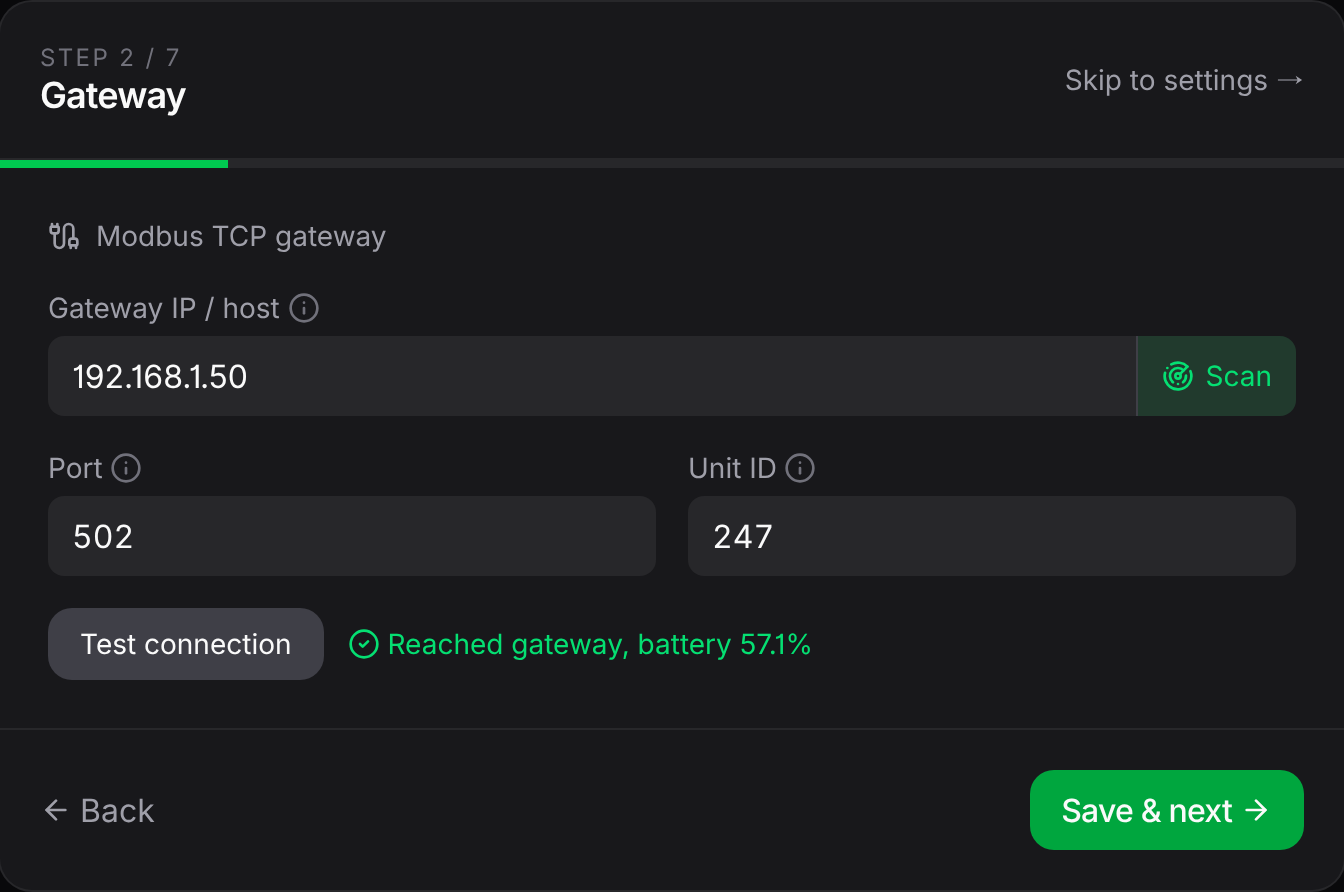
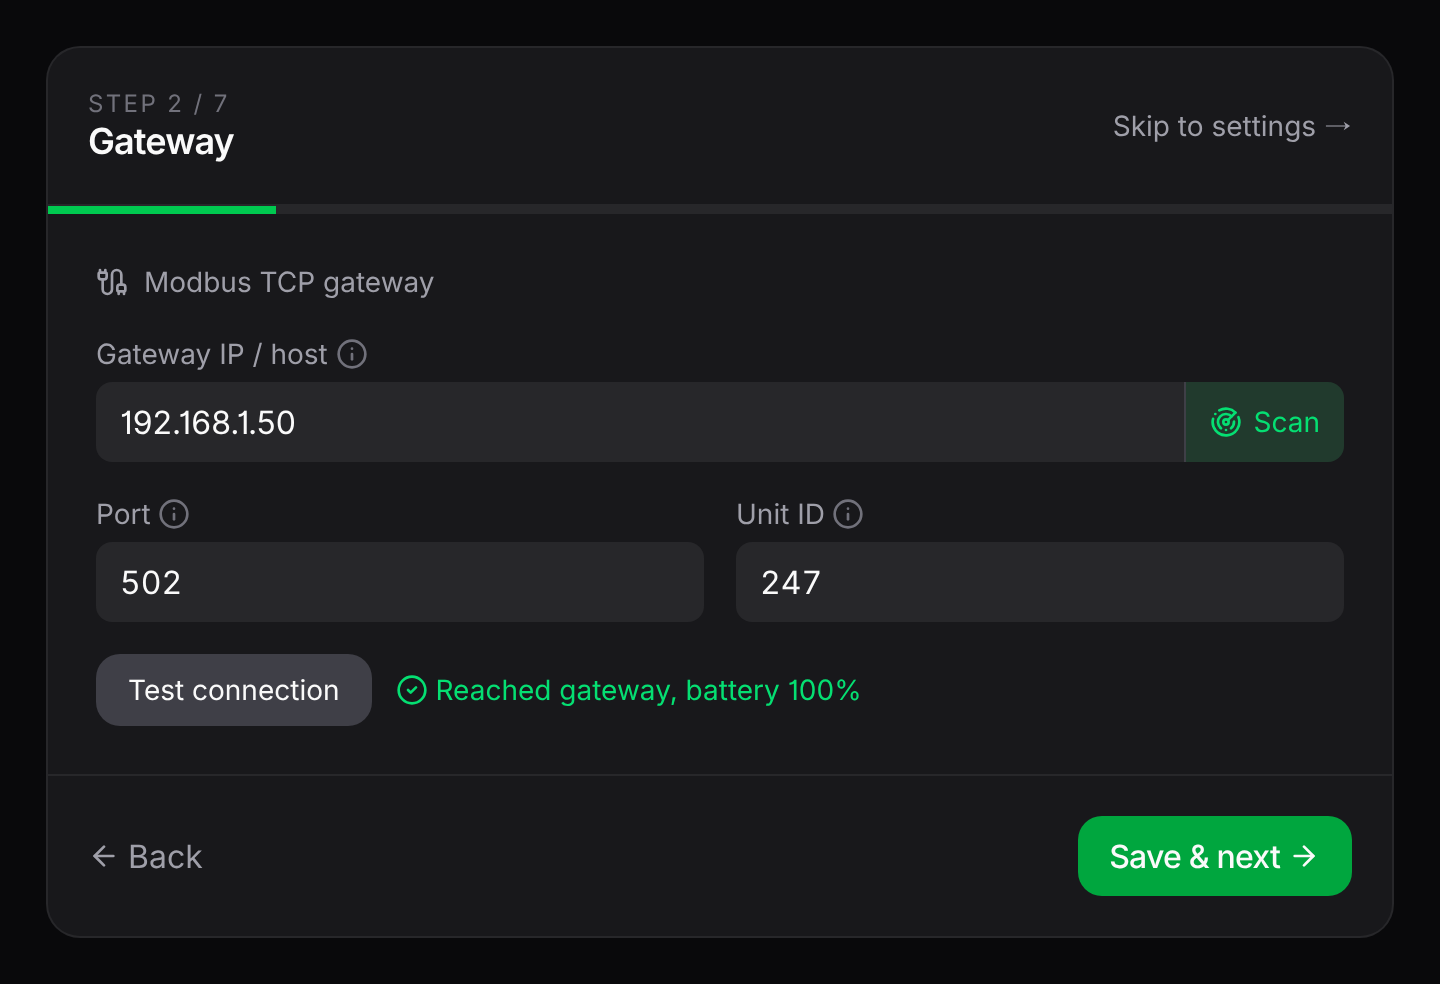
Retook the wizard screenshot with page margin around the card so its corners sit inside the docs border, and made the wizard capture fill the gateway host when the wizard opens empty.

diff --git a/docs/DEEP_DIVE.md b/docs/DEEP_DIVE.md
@@ -389,7 +389,7 @@ PLAYWRIGHT_VERSION=1.59.0 SIGEN_URL=http://bridge.lan:5163 npm run screenshots
 
 The optional argument limits the run to a group: `data` (dashboard, trends, devices, and fullscreen shots across every viewport), `settings` (the six settings pages), `wizard` (the gateway step), or `all` (the default). `SCREENSHOT_OUT` redirects the output to a different repo-relative folder, handy for a dry run that leaves the committed PNGs alone. `SHOT_FILES` (a comma-separated list of file names, such as `SHOT_FILES=fullscreen-cost-tablet.png`) re-shoots only those files from the `data` group.
 
-The capture lives in `scripts/capture-screenshots.mjs`: the viewport profiles (desktop 1280×800, tablet 1194×834, phone 393×852 and 852×393, all at 2× scale), the routes, and the settings sizing. The dashboard, fullscreen, devices, and Settings → Solar shots replace the live readings with a fixed daytime sample (solar across three named strings, a Smart Port hot water load drawing on the surplus, the battery charging, the grid exporting), so they look the same whether the target is in full sun or sitting dark at night, and the serial and string names are swapped for placeholders. Every context renders in one timezone (`Australia/Sydney`, override with `SCREENSHOT_TZ`) so the footer clock, the cost figure, and the trends x-axis stay consistent between runs. The trends shots keep the real history. The Gateway and Apple Home settings shots are sanitized in-page before they fire, so no real values reach a committed PNG: the gateway host is overwritten with `192.168.1.50`, the HomeKit PIN is masked, and the bind interface is cleared. The wizard shot runs a real Test connection, so the target needs a reachable gateway.
+The capture lives in `scripts/capture-screenshots.mjs`: the viewport profiles (desktop 1280×800, tablet 1194×834, phone 393×852 and 852×393, all at 2× scale), the routes, and the settings sizing. The dashboard, fullscreen, devices, and Settings → Solar shots replace the live readings with a fixed daytime sample (solar across three named strings, a Smart Port hot water load drawing on the surplus, the battery charging, the grid exporting), so they look the same whether the target is in full sun or sitting dark at night, and the serial and string names are swapped for placeholders. Every context renders in one timezone (`Australia/Sydney`, override with `SCREENSHOT_TZ`) so the footer clock, the cost figure, and the trends x-axis stay consistent between runs. The trends shots keep the real history. The Gateway and Apple Home settings shots are sanitized in-page before they fire, so no real values reach a committed PNG: the gateway host is overwritten with `192.168.1.50`, the HomeKit PIN is masked, and the bind interface is cleared. The wizard shot runs a real Test connection, so the target needs a reachable gateway and no settings passcode (the test route needs an unlocked session). If the target's gateway address comes from `SIGEN_IP` rather than saved settings, the wizard opens with an empty host; set `SHOT_GATEWAY_HOST` to the gateway's address for the test. The shot shows only the placeholder address. The capture keeps `24 px` of page background around the wizard card so the card's rounded corners sit inside the docs border.
 
 Chromium launches with `--font-render-hinting=none`. Headless Linux Chromium otherwise hints to whole pixels, which snaps glyph advances and spaces the small labels unevenly; disabling it keeps the subpixel positioning a real browser uses, so the captures match the live app.
 

diff --git a/docs/reference/development.md b/docs/reference/development.md
@@ -125,7 +125,7 @@ PLAYWRIGHT_VERSION=1.59.0 SIGEN_URL=http://bridge.lan:5163 npm run screenshots
 
 The optional argument limits the run to a group: `data` (dashboard, trends, devices, and fullscreen shots across every viewport), `settings` (the six settings pages), `wizard` (the gateway step), or `all` (the default). `SCREENSHOT_OUT` redirects the output to a different repo-relative folder, handy for a dry run that leaves the committed PNGs alone. `SHOT_FILES` (a comma-separated list of file names, such as `SHOT_FILES=fullscreen-cost-tablet.png`) re-shoots only those files from the `data` group.
 
-The capture lives in `scripts/capture-screenshots.mjs`: the viewport profiles (desktop 1280×800, tablet 1194×834, phone 393×852 and 852×393, all at 2× scale), the routes, and the settings sizing. The dashboard, fullscreen, devices, and Settings → Solar shots replace the live readings with a fixed daytime sample (solar across three named strings, a Smart Port hot water load drawing on the surplus, the battery charging, the grid exporting), so they look the same whether the target is in full sun or sitting dark at night, and the serial and string names are swapped for placeholders. Every context renders in one timezone (`Australia/Sydney`, override with `SCREENSHOT_TZ`) so the footer clock, the cost figure, and the trends x-axis stay consistent between runs. The trends shots keep the real history. The Gateway and Apple Home settings shots are sanitized in-page before they fire, so no real values reach a committed PNG: the gateway host is overwritten with `192.168.1.50`, the HomeKit PIN is masked, and the bind interface is cleared. The wizard shot runs a real Test connection, so the target needs a reachable gateway.
+The capture lives in `scripts/capture-screenshots.mjs`: the viewport profiles (desktop 1280×800, tablet 1194×834, phone 393×852 and 852×393, all at 2× scale), the routes, and the settings sizing. The dashboard, fullscreen, devices, and Settings → Solar shots replace the live readings with a fixed daytime sample (solar across three named strings, a Smart Port hot water load drawing on the surplus, the battery charging, the grid exporting), so they look the same whether the target is in full sun or sitting dark at night, and the serial and string names are swapped for placeholders. Every context renders in one timezone (`Australia/Sydney`, override with `SCREENSHOT_TZ`) so the footer clock, the cost figure, and the trends x-axis stay consistent between runs. The trends shots keep the real history. The Gateway and Apple Home settings shots are sanitized in-page before they fire, so no real values reach a committed PNG: the gateway host is overwritten with `192.168.1.50`, the HomeKit PIN is masked, and the bind interface is cleared. The wizard shot runs a real Test connection, so the target needs a reachable gateway and no settings passcode (the test route needs an unlocked session). If the target's gateway address comes from `SIGEN_IP` rather than saved settings, the wizard opens with an empty host; set `SHOT_GATEWAY_HOST` to the gateway's address for the test. The shot shows only the placeholder address. The capture keeps `24 px` of page background around the wizard card so the card's rounded corners sit inside the docs border.
 
 Chromium launches with `--font-render-hinting=none`. Headless Linux Chromium otherwise hints to whole pixels, which snaps glyph advances and spaces the small labels unevenly; disabling it keeps the subpixel positioning a real browser uses, so the captures match the live app.
 
